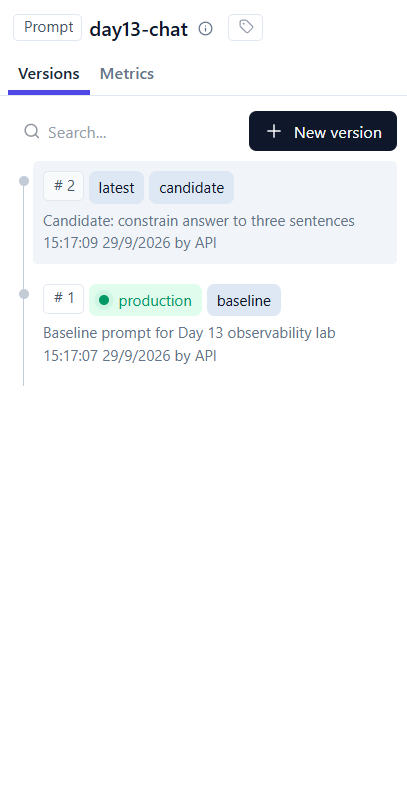
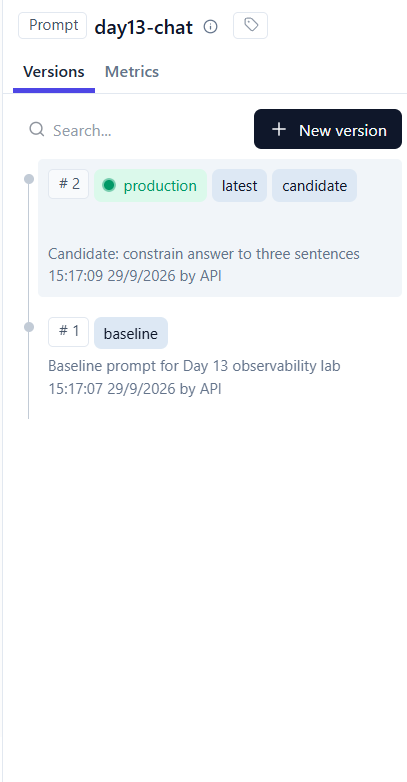
docs: finalize report and prompt promotion evidence

diff --git a/submission/REPORT.md b/submission/REPORT.md
@@ -6,7 +6,8 @@
 - **MSSV:** 2A202602834
 - **Lớp:** K4-L3A
 - **Repository URL:** https://github.com/DuyPhong123-ai/K4-L3-DAY13-NguyenDuyPhong-2A202602834-Monitoring-LLMOps
-- **Commit SHA nộp:** lấy bằng `git rev-parse HEAD` sau khi tạo commit nộp cuối; commit phải chứa report và toàn bộ evidence bên dưới.
+- **Commit SHA chứa source/evidence đã kiểm tra:** `75c24334202af17ca52139aa50330bbff40ee72a`.
+- **Commit SHA nộp trên LMS:** commit mới nhất của nhánh `main` sau khi cập nhật báo cáo/evidence lần cuối; SHA này được nộp cùng URL repository cá nhân.
 - **Challenge ID:** `day13-k4-l3a-monitoring-llmops-v1`
 - **Tên project Langfuse cá nhân:** `day13-k4-l3a-2A202602834`
 
@@ -31,7 +32,7 @@
 | Incident log | [13-incident-log.txt](evidence/13-incident-log.txt) |
 | Incident trace | [14-incident-trace.png](evidence/14-incident-trace.png) |
 
-> Evidence 06–10 và 14 được truy vấn từ project Langfuse cá nhân bằng Observations API v2 và không chứa API key/secret. Trước khi nộp, nên chụp thêm UI Langfuse cho 06–10 và 14 để tên project và waterfall hiển thị trực quan theo rubric.
+> Evidence 06–10 và 14 gồm ảnh UI từ project Langfuse cá nhân `day13-k4-l3a-2A202602834`, kèm các file `.txt` truy vấn qua Observations API v2 để đối chiếu ID và metadata. Các evidence không chứa API key/secret.
 
 ## 3. Kết quả kỹ thuật
 
@@ -139,7 +140,7 @@ Output client quan sát 12.89–15.55 giây khi concurrency=5, cao hơn latency 
 - **Metrics → Logs → Traces:** metrics khoanh vùng triệu chứng/thời gian; log cung cấp request cụ thể qua `correlation_id`; trace tách thời gian theo từng child observation để xác định root cause.
 - **Prompt/token/cost/SLO:** prompt version cho phép so sánh và rollback không cần deploy code; token/cost giúp phát hiện cost spike; SLO và error budget chuyển metric kỹ thuật thành cam kết vận hành có thể cảnh báo.
 - **Bài học chính:** chỉ nhìn tổng latency không đủ. Cần child span đúng loại và đúng quan hệ để phân biệt retrieval, prompt fetch, LLM generation và queueing.
-- **Hạn chế:** LLM và RAG là mô phỏng; metrics trong `/metrics` nằm trong memory và reset khi restart; dashboard local đọc toàn bộ JSONL; alert mới là contract/runbook, chưa gửi Slack thật. Evidence Langfuse dạng text API nên cần bổ sung screenshot UI cá nhân trước khi nộp để tối đa điểm trình bày.
+- **Hạn chế:** LLM và RAG là mô phỏng; metrics trong `/metrics` nằm trong memory và reset khi restart; dashboard local đọc toàn bộ JSONL; alert mới là contract/runbook, chưa gửi Slack thật. Evidence Langfuse đã có cả ảnh UI và bản đối chiếu text từ API, nhưng hệ thống lab chưa có backend metrics/alert production thực tế.
 
 ## 9. Checklist trước khi nộp
 
@@ -152,5 +153,6 @@ Output client quan sát 12.89–15.55 giây khi concurrency=5, cao hơn latency 
 - [x] Có một SLO/error budget và ba alert/runbook.
 - [x] Incident evidence nối metric → log/correlation ID → trace → span → root cause.
 - [x] Không có secret hoặc PII thô trong report/evidence.
-- [ ] Chụp bổ sung UI Langfuse 06–10 và 14 nếu giảng viên yêu cầu ảnh thay vì evidence `.txt` từ API.
-- [ ] Tạo commit cuối, điền SHA nộp và push commit lên remote cá nhân trước deadline.
+- [x] Đã bổ sung ảnh UI Langfuse cho evidence 06–10 và 14, đồng thời giữ evidence `.txt` để đối chiếu trace ID, correlation ID và metadata.
+- [x] Evidence `10a` chứng minh `production` từng ở version 2; trạng thái cuối đã được kiểm tra lại là v1 `[baseline, production]` và v2 `[candidate, latest]`.
+- [ ] Tạo commit cuối chứa report và ảnh `10a` mới, push lên remote cá nhân và nộp SHA mới nhất trên LMS trước deadline.
